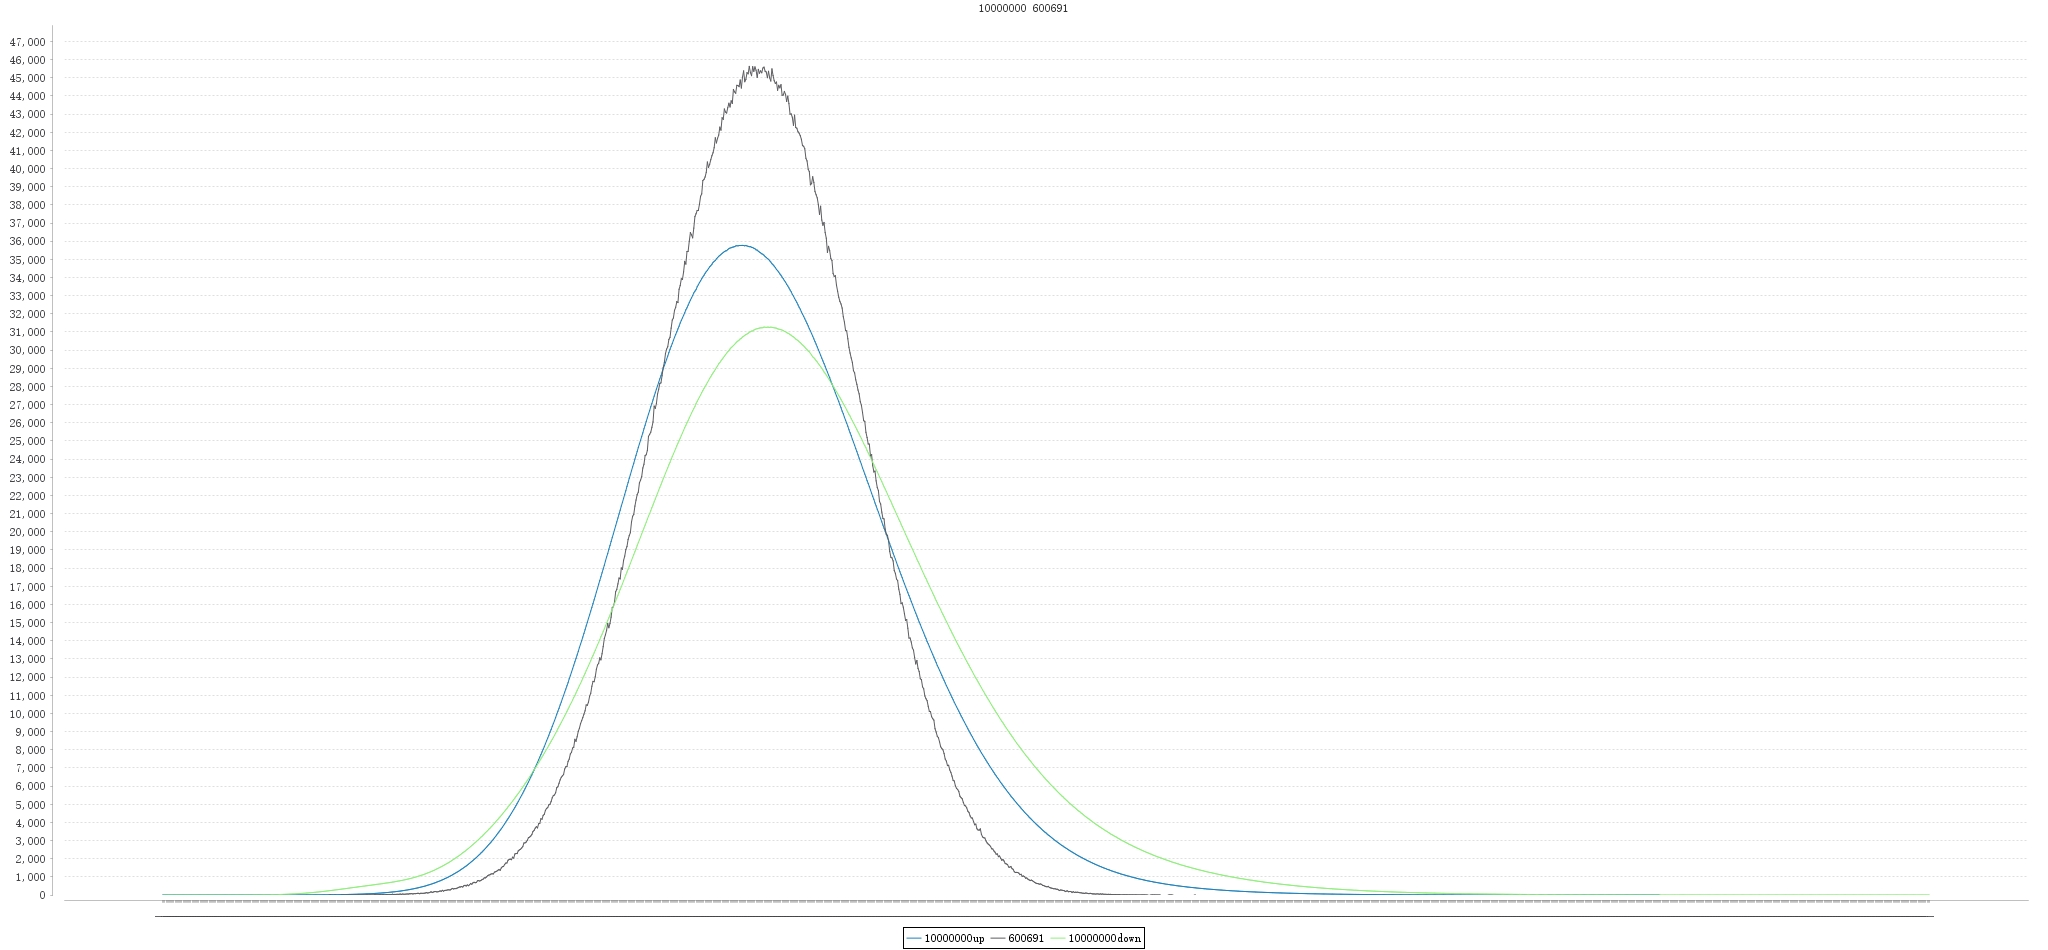
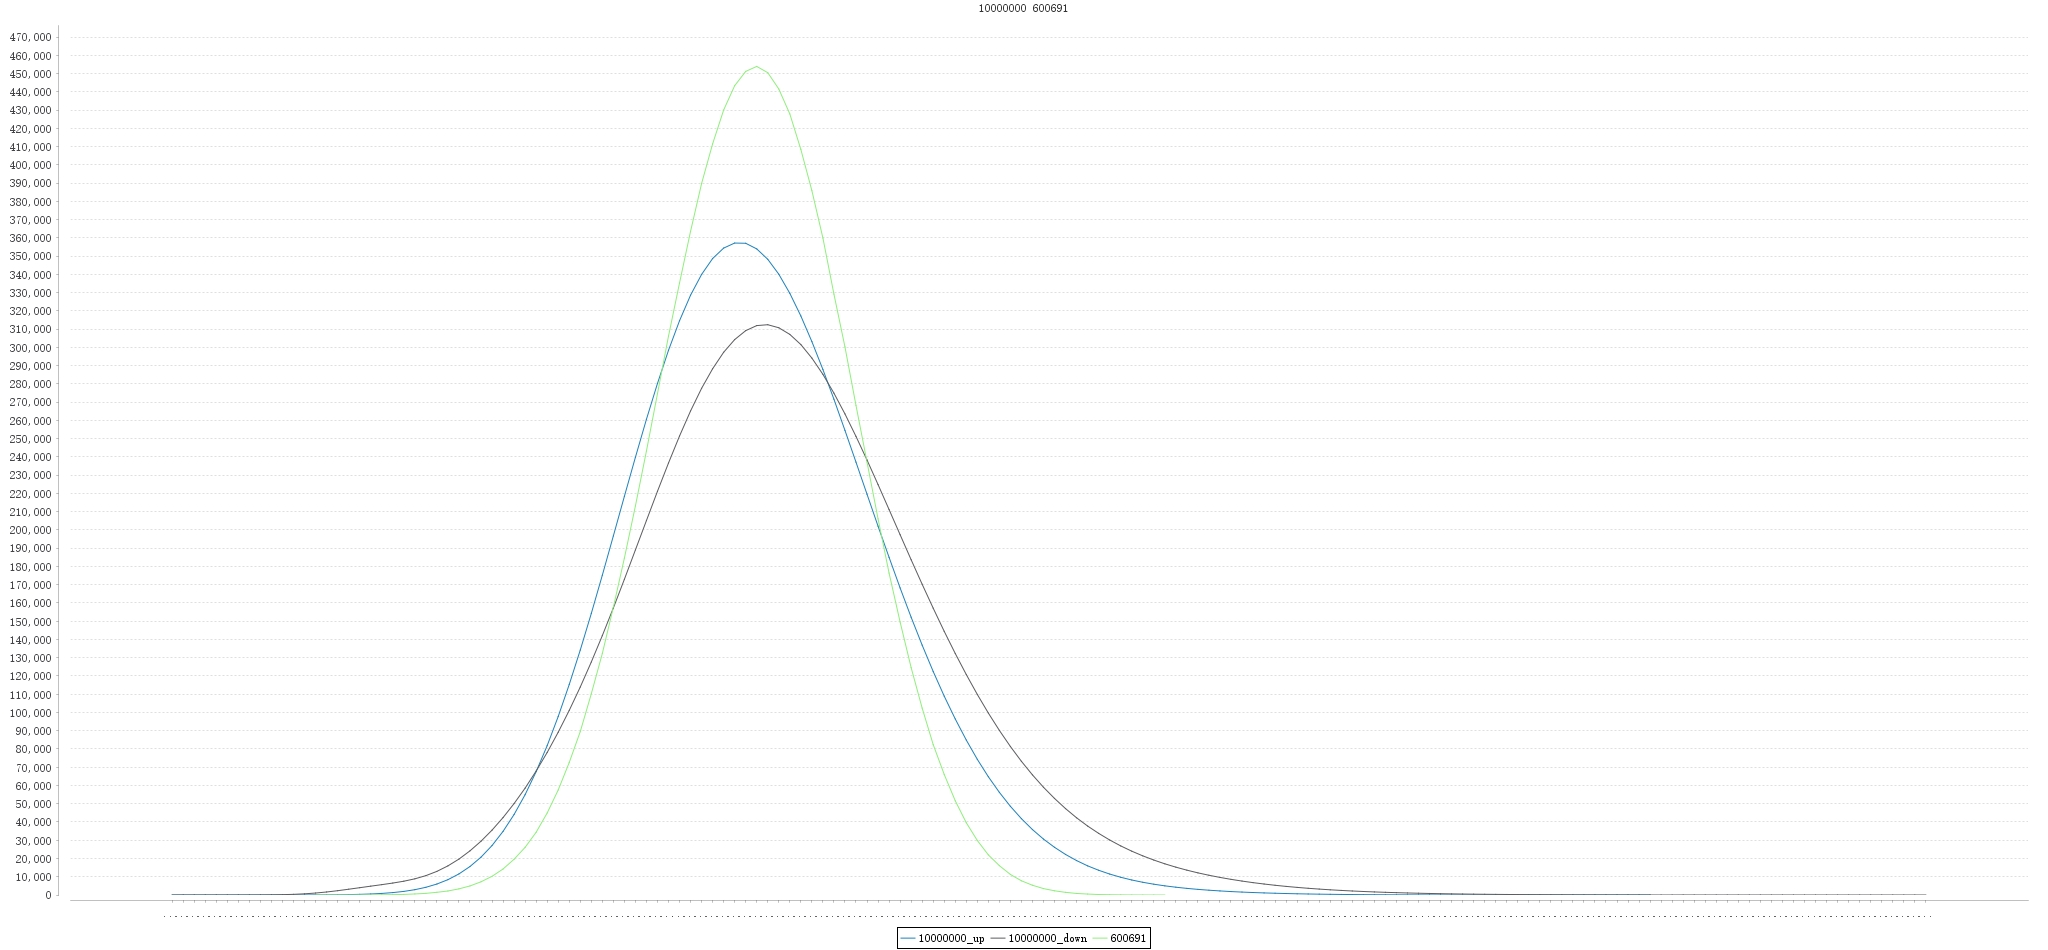
添加   实验

diff --git a/src/main/java/personal/xuzj157/stocksyn/service/impl/ForecastServiceImpl.java b/src/main/java/personal/xuzj157/stocksyn/service/impl/ForecastServiceImpl.java
@@ -24,36 +24,36 @@ public class ForecastServiceImpl implements ForecastService {
 
     @Override
     public double chartForecast(String name, String code) {
-        Map<String, Map<Double, Integer>> statisticsMap = CalculationUtils.findMap(name);
-
+        Map<String, Map<Double, Integer>> statisticsMap = CalculationUtils.findMap(name + "_");
         SecondCalculationUnit second = secondCalculationUnitRepository.findByCode(code);
-        List<RandomUnit> randomUnitList = CalculationUtils.getRandom(Integer.valueOf(name));
-
         DecimalFormat df;
         if (Integer.valueOf(name) > 2000000) {
-            df = new DecimalFormat("#.##");
+            df = new DecimalFormat("#.#");
         } else {
             df = new DecimalFormat("#.#");
         }
 
         Map<Double, Integer> map = new HashMap<>();
-        for (RandomUnit randomUnit : randomUnitList) {
-            double randomSum = CalculationUtils.getSum(randomUnit, second);
-            randomSum = Double.parseDouble(df.format(randomSum));
-            Integer num = map.get(randomSum);
-            if (num == null || num == 0) {
-                num = 1;
-            } else {
-                num++;
+        for (int i = 0; i < 100; i++) {
+            List<RandomUnit> randomUnitList = CalculationUtils.getRandom(Integer.valueOf(name));
+            for (RandomUnit randomUnit : randomUnitList) {
+                double randomSum = CalculationUtils.getSum(randomUnit, second);
+                randomSum = Double.parseDouble(df.format(randomSum));
+                Integer num = map.get(randomSum);
+                if (num == null || num == 0) {
+                    num = 1;
+                } else {
+                    num++;
+                }
+                map.put(randomSum, num);
             }
-            map.put(randomSum, num);
+            log.info("i:" + i + "    finish: " + second.getCode());
         }
-        log.info("finish: " + second.getCode());
 
-        statisticsMap.put(code, map);
+        statisticsMap.put(code, CalculationUtils.mapSort(map,110));
 
         for (Map.Entry<String, Map<Double, Integer>> entry : statisticsMap.entrySet()) {
-            statisticsMap.put(entry.getKey(),CalculationUtils.mapSort(entry.getValue(),1));
+            statisticsMap.put(entry.getKey(), CalculationUtils.mapSort(entry.getValue(), 1));
         }
 
         LineChartUtils.allInOne(statisticsMap, name + " " + code, "", "", 2048, 950);

diff --git a/src/main/java/personal/xuzj157/stocksyn/service/impl/CalculatorServiceImpl.java b/src/main/java/personal/xuzj157/stocksyn/service/impl/CalculatorServiceImpl.java
@@ -46,7 +46,7 @@ public class CalculatorServiceImpl implements CalculatorService {
     public void calculatorChart(int times) {
         Map<String, Map<Double, Integer>> statisticsMap = new HashMap<>();
         Integer upNum = 0, downNum = 0;
-        String format = "#.##";
+        String format = "#.#";
         DecimalFormat df = new DecimalFormat(format);
         //初始化随机数单元
         List<RandomUnit> randomUnitList = CalculationUtils.getRandom(times);
@@ -84,8 +84,8 @@ public class CalculatorServiceImpl implements CalculatorService {
             log.info("finish: " + second.getCode());
         }
         log.info("basic finish!!!");
-        statisticsMap.put(times + "up", CalculationUtils.mapSort(upMap, upNum));
-        statisticsMap.put(times + "down", CalculationUtils.mapSort(downMap, downNum));
+        statisticsMap.put(times + "_up", CalculationUtils.mapSort(upMap, upNum));
+        statisticsMap.put(times + "_down", CalculationUtils.mapSort(downMap, downNum));
         //存储以备下次使用
         CalculationUtils.saveMap(statisticsMap);
         log.info("statisticsMap finish!!!");
